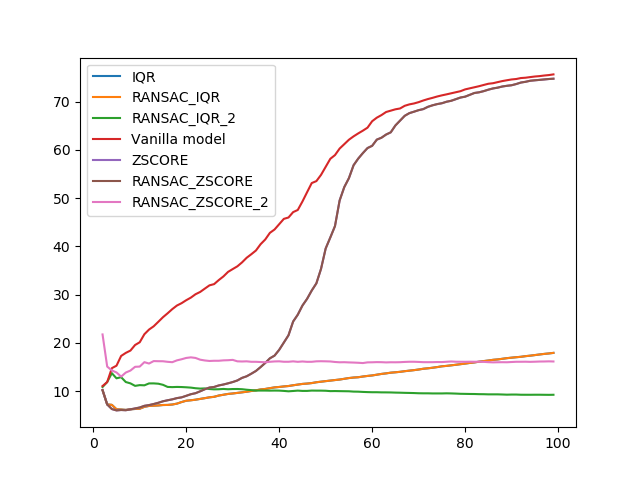
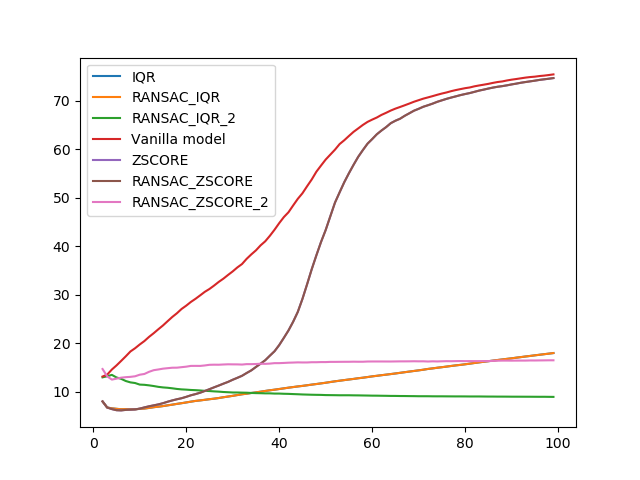
.

diff --git a/experiment.py b/experiment.py
@@ -8,6 +8,8 @@ import json
 import matplotlib.pyplot as plt 
 from calib_lines import calib_camera_nlines_ransac, calib_camera_stat, calib_camera_vanilla, calib_camera_ransac
 from pprint import pprint
+import multiprocessing
+from multiprocessing import cpu_count
 import argparse
 config ={
         "cam_f" : 1000, 
@@ -155,10 +157,7 @@ def visualize_result(x_value:np.array,
     for method in methods:
         plt.plot(x_value, y_value[method], label = method)
         plt.legend()
-        
-        # success Rate 
-
-        pass 
+    
     plt.savefig(f"result/{title}.png")
 
 
@@ -173,22 +172,21 @@ if __name__ =="__main__" :
     dataset = parser.parse_args()
 
     # Synthetic
-    n_iter = 100
+    n = 100
     trials = 100
     noise_limit = 10 
     thousands = defaultdict(list)
     med = defaultdict(list)
-    success = defaultdict(int)
+    
     success_rate = defaultdict(list)
     save = dict()
 
     # Implement Experiments : Focal length by the number of line segment 
     if dataset.dataset == "syn":
         if dataset.iv == "num":
-            for i in tqdm(range(2,n_iter)):
+            for i in tqdm(range(2,n)):
                 # To evaluate Properly, Randomness derived from the algorithms need be eliminated => Evaluate by median value of a lot of trials
-
-                
+                success = defaultdict(int)
                 for trial in range(trials): 
                     
                     a, b = create_synthetic_data(n = i ,l = config["l"])
@@ -206,7 +204,7 @@ if __name__ =="__main__" :
 
                     # Store success rate 
                 for m in methods:
-                    success_rate[m].append(success[m]/100) 
+                    success_rate[m].append(success[m]/trials) 
 
 
                 # After 100 trials, Get median values 
@@ -220,41 +218,71 @@ if __name__ =="__main__" :
                 
 
             # Show Result
-            visualize_result(np.arange(2,n_iter), med, "Accuracy")
-            visualize_result(np.arange(2,n_iter), success_rate, "Success_Rate")
+            visualize_result(np.arange(2,n), med, "Accuracy")
+            #visualize_result(np.arange(2,n), success_rate, "Success_Rate")
     
-                            
+                        
       
     # Implement Experiments :  Focal length by Noise level(std of normal distribution)                
         elif dataset.iv == "noise":
-            for i in tqdm(range(0,noise_limit)):
-                for trial in range(trials):                    
-                    a, b = create_synthetic_data(n = 100 ,noise = i ,l = config["l"])
-                    result = do(a,b)
-                    methods = result.keys()
+            methods=["IQR",
+        "RANSAC_IQR",
+        "RANSAC_IQR_2",
+        "Vanilla model",
+        "ZSCORE",
+        "RANSAC_ZSCORE",
+        "RANSAC_ZSCORE_2"]
+            for i in tqdm(range(1, noise_limit)):
+                success = defaultdict(int)
+                pool = multiprocessing.Pool(processes=cpu_count()-1) # 병렬 처리할 프로세스 수를 지정하세요
 
-                    for m in methods:
-                        if result[m] !="nan":
-                            thousands[m].append(result[m]["f"])
+                results = []
+                for trial in range(trials):
+                    a, b = create_synthetic_data(n=50, l=config["l"])
+                    results.append(pool.apply_async(do, (a, b)))
 
-                    # After 1000 trials, Get median values 
+                for result in results:
+                    r = result.get()
                     for m in methods:
-                        med[m].append(float(get_median(thousands[m])))
+                        if r[m] != "nan":
+                            relative_err = 100 * (r[m]['f'] - config["cam_f"]) / config["cam_f"]
+                            relative_err = abs(relative_err)
+                            thousands[m].append(relative_err)
+
+                            if relative_err < 10:
+                                success[m] += 1
+
+                pool.close()
+                pool.join()
+                # After 100 trials, Get median values 
+            for m in methods:
+                med[m].append(float(get_median(thousands[m])))
+            
+            save["median"] = med 
+            with open("exp_noise_result.json","w") as f:
+                json.dump(save,f)
+                
+
             # Show Result
+            visualize_result(np.arange(2,noise_limit), med, "Noise_Accuracy")
+
+           
 
 
                     
                 
 
     elif dataset.dataset == "vid":        
-        with open('line_segment_leftside.json','r') as f: 
+        with open('line_segment_center.json','r') as f: 
             from_file = json.load(f)
             a = from_file['a']
             b = from_file['b']
             config["cam_w"] = from_file['cam_w']
             config["cam_h"] = from_file['cam_h']
         result = do(a,b)
-        pprint(result)
+        with open("mirae_center.json","w") as f:
+                json.dump(result,f)
+        
 
     elif dataset.dataset == "public":
         pass 

diff --git a/viz_result.py b/viz_result.py
@@ -1,0 +1,39 @@
+from pprint import pprint
+import argparse
+import json 
+import numpy as np 
+import matplotlib.pyplot as plt 
+
+
+def visualize_result(x_value:np.array,
+                    y_value:dict,
+                    title:str):
+    methods=["IQR",
+    "RANSAC_IQR",
+    "RANSAC_IQR_2",
+    "Vanilla model",
+    "ZSCORE",
+    "RANSAC_ZSCORE",
+    "RANSAC_ZSCORE_2"]
+   
+    plt.title(title+" of models")
+    plt.figure()
+    for method in methods:
+        if method == "ZSCORE":
+            plt.plot(x_value, y_value[method],linewidth=4,label = method )
+        else:
+            plt.plot(x_value, y_value[method], label = method)
+    
+        plt.legend()
+        plt.ylim([0,100])
+    pprint(y_value["ZSCORE"])
+    plt.savefig(f"result/{title}1.png")
+
+
+if __name__ == "__main__":
+    with open("exp_noise_result.json",'r') as f:
+        x = json.load(f)
+        ret = x["median"]
+       
+    visualize_result(np.arange(2,100),ret, "Accuracy")
+    

diff --git a/calib_lines.py b/calib_lines.py
@@ -438,6 +438,7 @@ def calib_camera_nlines_ransac(a,b,
     result['theta'] =theta
     result['phi'] = phi
     result['height'] = height
+    result['viz'] =v
    
     return result
 
